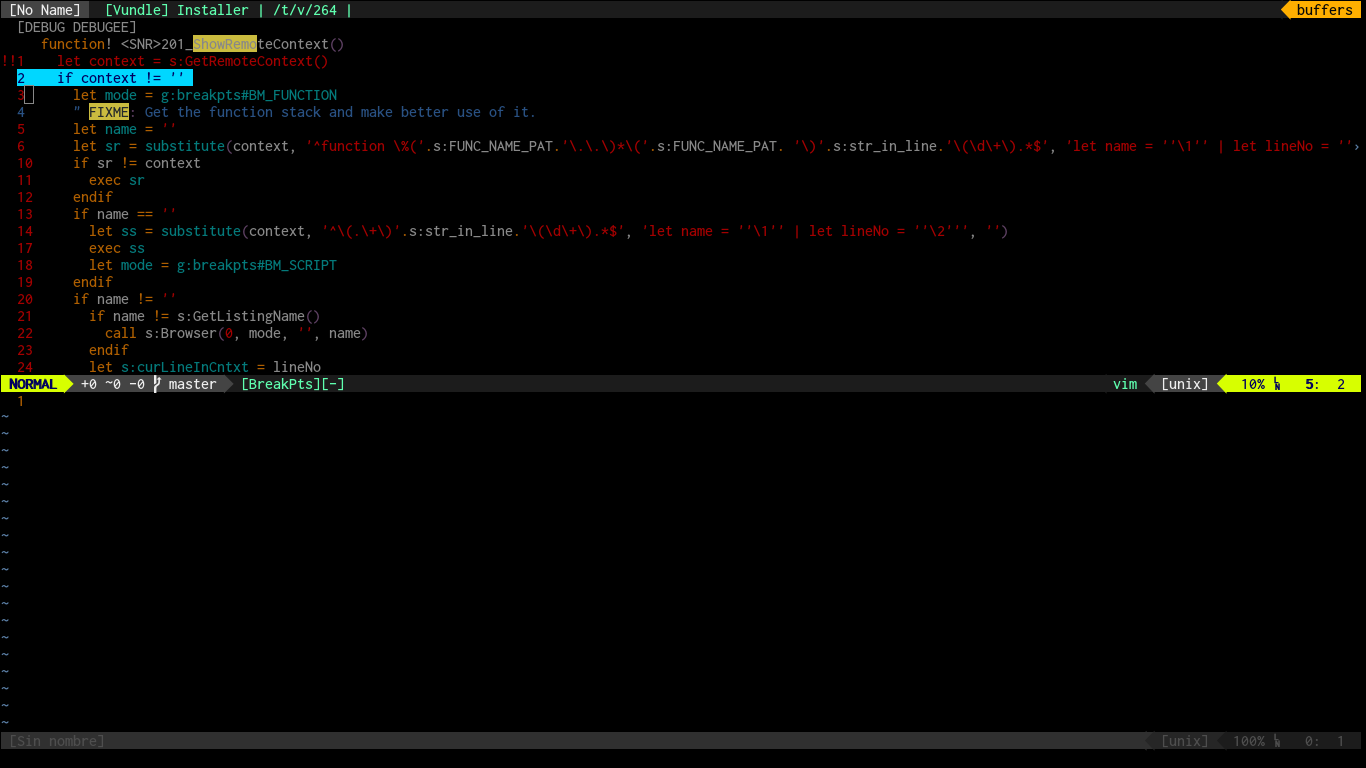
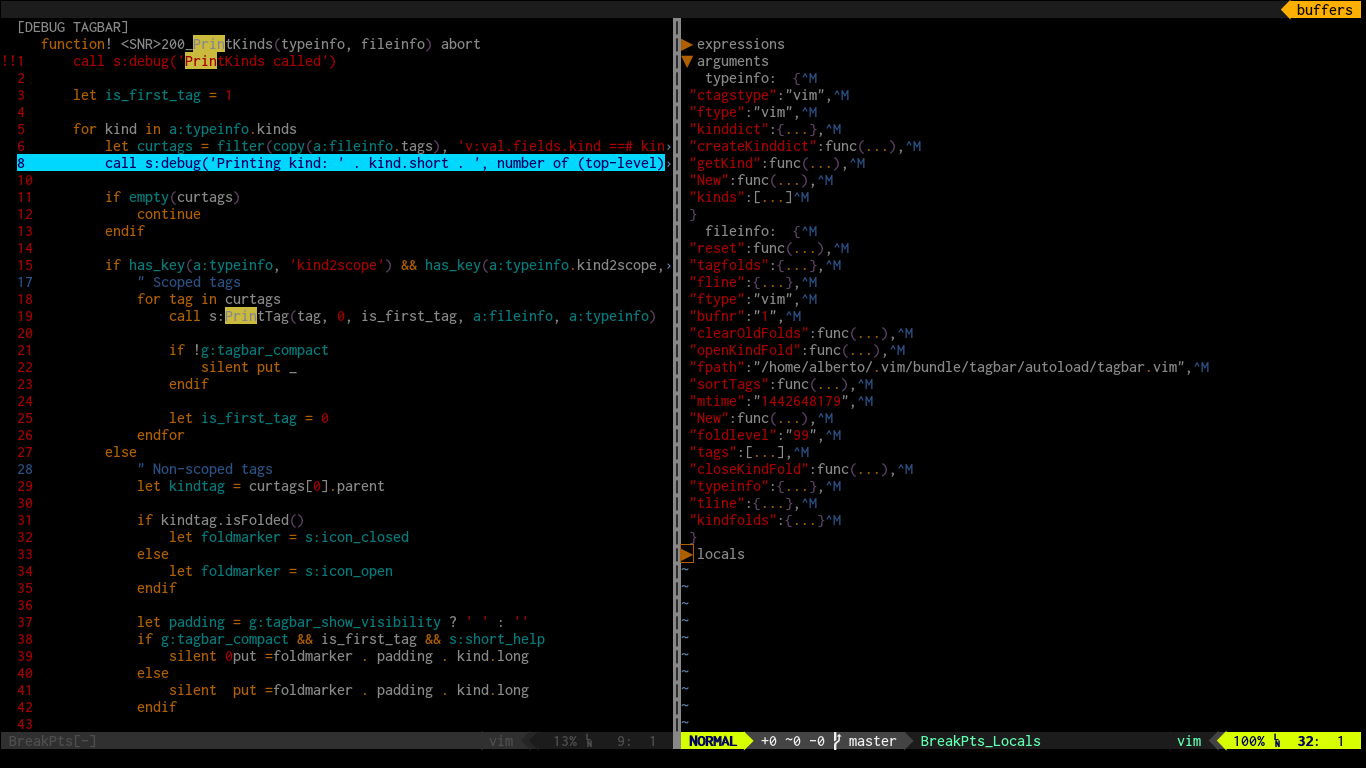
Add local variables view to screenshot

diff --git a/README.md b/README.md
@@ -2,7 +2,7 @@
 
 Visual debbuging on vim
 
-![screenshot](res/screenshot.png)
+![Debugging tagbar with breakpts](res/screenshot.png)
 
 ## Install 
 
